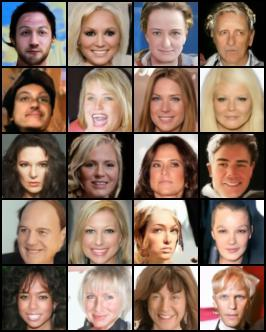
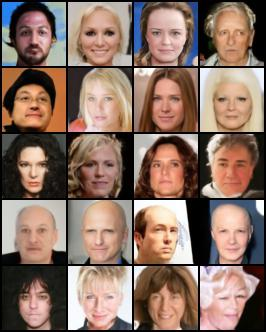
fix unet conditioning & update celeba results

diff --git a/v_diffusion/models/unet.py b/v_diffusion/models/unet.py
@@ -248,8 +248,9 @@ class UNet(nn.Module):
         if self.num_classes and y is not None:
             if self.multitags:
                 assert y.ndim == 2
-                y.div_(torch.count_nonzero(
-                    y, dim=1).clamp(min=1.).sqrt().unsqueeze(1))
+                y = y.div(torch.count_nonzero(
+                    y, dim=1
+                ).clamp(min=1.).sqrt().unsqueeze(1))
             t_emb += self.class_embed(y)
         # downsample
         hs = [self.in_conv(x)]

diff --git a/README.md b/README.md
@@ -12,6 +12,96 @@
 	- [x] gradient accumulation
 	- [x] FID/Precision/Recall evaluation
 
+## Basic usage
+
+<details>
+<summary>expand</summary>
+<pre><code>
+usage: train.py [-h] [--dataset {mnist,cifar10,celeba}] [--root ROOT]        
+                [--epochs EPOCHS] [--lr LR] [--beta1 BETA1] [--beta2 BETA2]  
+                [--weight-decay WEIGHT_DECAY] [--batch-size BATCH_SIZE]      
+                [--num-accum NUM_ACCUM] [--train-timesteps TRAIN_TIMESTEPS]  
+                [--sample-timesteps SAMPLE_TIMESTEPS]                        
+                [--logsnr-schedule {linear,sigmoid,cosine,legacy}]           
+                [--logsnr-max LOGSNR_MAX] [--logsnr-min LOGSNR_MIN]          
+                [--model-out-type {x_0,eps,both,v}]                          
+                [--model-var-type {fixed_small,fixed_large,fixed_medium}]    
+                [--reweight-type {constant,snr,truncated_snr,alpha2}]        
+                [--loss-type {kl,mse}] [--intp-frac INTP_FRAC] [--use-cfg]   
+                [--w-guide W_GUIDE] [--p-uncond P_UNCOND]                    
+                [--num-workers NUM_WORKERS] [--train-device TRAIN_DEVICE]    
+                [--eval-device EVAL_DEVICE] [--image-dir IMAGE_DIR]          
+                [--image-intv IMAGE_INTV] [--num-save-images NUM_SAVE_IMAGES]
+                [--sample-bsz SAMPLE_BSZ] [--config-dir CONFIG_DIR]          
+                [--chkpt-dir CHKPT_DIR] [--chkpt-name CHKPT_NAME]            
+                [--chkpt-intv CHKPT_INTV] [--seed SEED] [--resume] [--eval]  
+                [--use-ema] [--use-ddim] [--ema-decay EMA_DECAY]             
+                [--distributed]                                    
+optional arguments:                                                          
+  -h, --help            show this help message and exit                      
+  --dataset {mnist,cifar10,celeba}                                           
+  --root ROOT           root directory of datasets                           
+  --epochs EPOCHS       total number of training epochs                      
+  --lr LR               learning rate                                        
+  --beta1 BETA1         beta_1 in Adam                                       
+  --beta2 BETA2         beta_2 in Adamffusion-torch> ^C
+  --weight-decay WEIGHT_DECAYects\v-diffusion-torch> ^C
+                        decoupled weight_decay factor in Adamrain.py --help
+  --batch-size BATCH_SIZE
+  --num-accum NUM_ACCUM
+                        number of batches before weight update, a.k.a.
+                        gradient accumulation
+  --train-timesteps TRAIN_TIMESTEPS
+                        number of diffusion steps for training (0 indicates
+                        continuous training)
+  --sample-timesteps SAMPLE_TIMESTEPS
+                        number of diffusion steps for sampling
+  --logsnr-schedule {linear,sigmoid,cosine,legacy}
+  --logsnr-max LOGSNR_MAX
+  --logsnr-min LOGSNR_MIN
+  --model-out-type {x_0,eps,both,v}
+  --model-var-type {fixed_small,fixed_large,fixed_medium}
+  --reweight-type {constant,snr,truncated_snr,alpha2}
+  --loss-type {kl,mse}
+  --intp-frac INTP_FRAC
+  --use-cfg             whether to use classifier-free guidance
+  --w-guide W_GUIDE     classifier-free guidance strength
+  --p-uncond P_UNCOND   probability of unconditional training
+  --num-workers NUM_WORKERS
+                        number of workers for data loading
+  --train-device TRAIN_DEVICE
+  --eval-device EVAL_DEVICE
+  --image-dir IMAGE_DIR
+  --image-intv IMAGE_INTV
+  --num-save-images NUM_SAVE_IMAGES
+                        number of images to generate & save
+  --sample-bsz SAMPLE_BSZ
+                        batch size for sampling
+  --config-dir CONFIG_DIR
+  --chkpt-dir CHKPT_DIR
+  --chkpt-name CHKPT_NAME
+  --chkpt-intv CHKPT_INTV
+                        frequency of saving a checkpoint
+  --seed SEED           random seed
+  --resume              to resume training from a checkpoint
+  --eval                whether to evaluate fid during training
+</code></pre>
+</details>
+
+### Examples
+```shell
+# train cifar10 with one gpu
+python train.py --dataset cifar10 --use-ema --use-ddim --num-save-images 80 --use-cfg --epochs 600 --chkpt-intv 120 --image-intv 10
+
+# train cifar10 with two gpus
+python -m torch.distributed.run --standalone --nproc_per_node 2 --rdzv_backend c10d train.py --dataset cifar10 --use-ema --use-ddim --num-save-images 80 --use-cfg --epochs 600 --chkpt-intv 120 --image-intv10 --distributed
+
+# train celeba with one gpu with effective batch_size 128
+python train.py --dataset celeba --use-ema --use-ddim --num-save-images 64 --use-cfg --epochs 240 --chkpt-intv 120 --image-intv 10 --num-accum 8 --sample-bsz 32
+
+# train celebA with two gpus
+python -m torch.distributed.run --standalone --nproc_per_node 2 --rdzv_backend c10d train.py --dataset celeba --use-ema --use-ddim --num-save-images 64 --use-cfg --epochs 240 --chkpt-intv 120 --image-intv 10 --distributed --num-accum 4 --sample-bsz 32
+```
 ## Conditional generation
 
 ### CIFAR-10
@@ -143,7 +233,60 @@
 	</table>
 </p>
 
+<details>
+<summary>More variants (animated)</summary>
+<p align="center">
+	<table>
+        <tr>
+            <th>guidance strength</th>
+            <th>tag</th>
+            <th>Black_Hair</th>
+            <th>Blond_Hair</th>
+            <th>Brown_Hair</th>
+            <th>Gray_Hair</th>
+        </tr><tr>
+        	<td rowspan="5"><b>w=0</b></td>
+            <td>Receding_Hairline</td>
+            <td rowspan="5" colspan="4"><img alt="w=0" src="./assets/celeba_w0.webp" height="100%" width="100%" />
+        </tr><tr>
+			<td>Straight_Hair</td>
+        </tr><tr>
+			<td>Wavy_Hair</td>
+        </tr><tr>
+            <td>Bald</td>
+        </tr><tr>
+            <td>Bangs</td>
+        </tr><tr>
+        	<td rowspan="5"><b>w=1</b></td>
+            <td>Receding_Hairline</td>
+            <td rowspan="5" colspan="4"><img alt="w=0" src="./assets/celeba_w1.webp" height="100%" width="100%" />
+        </tr><tr>
+			<td>Straight_Hair</td>
+        </tr><tr>
+			<td>Wavy_Hair</td>
+        </tr><tr>
+            <td>Bald</td>
+        </tr><tr>
+            <td>Bangs</td>
+        </tr><tr>
+        	<td rowspan="5"><b>w=3</b></td>
+            <td>Receding_Hairline</td>
+            <td rowspan="5" colspan="4"><img alt="w=3" src="./assets/celeba_w3.webp" height="100%" width="100%" />
+        </tr><tr>
+			<td>Straight_Hair</td>
+        </tr><tr>
+			<td>Wavy_Hair</td>
+        </tr><tr>
+            <td>Bald</td>
+        </tr><tr>
+            <td>Bangs</td>
+        </tr>
+	</table>
+</p>
+</details>
+
 ## Acknowledgement
+
 The development of this codebase is largely based on the official JAX implementation open-sourced by *Google Research* and my previous PyTorch implementation of DDPM, which are available at [[google-research/diffusion_distillation]](https://github.com/google-research/google-research/tree/master/diffusion_distillation/diffusion_distillation) and [[tqch/ddpm-torch]](https://github.com/tqch/ddpm-torch) respectively.
 
 ## References
